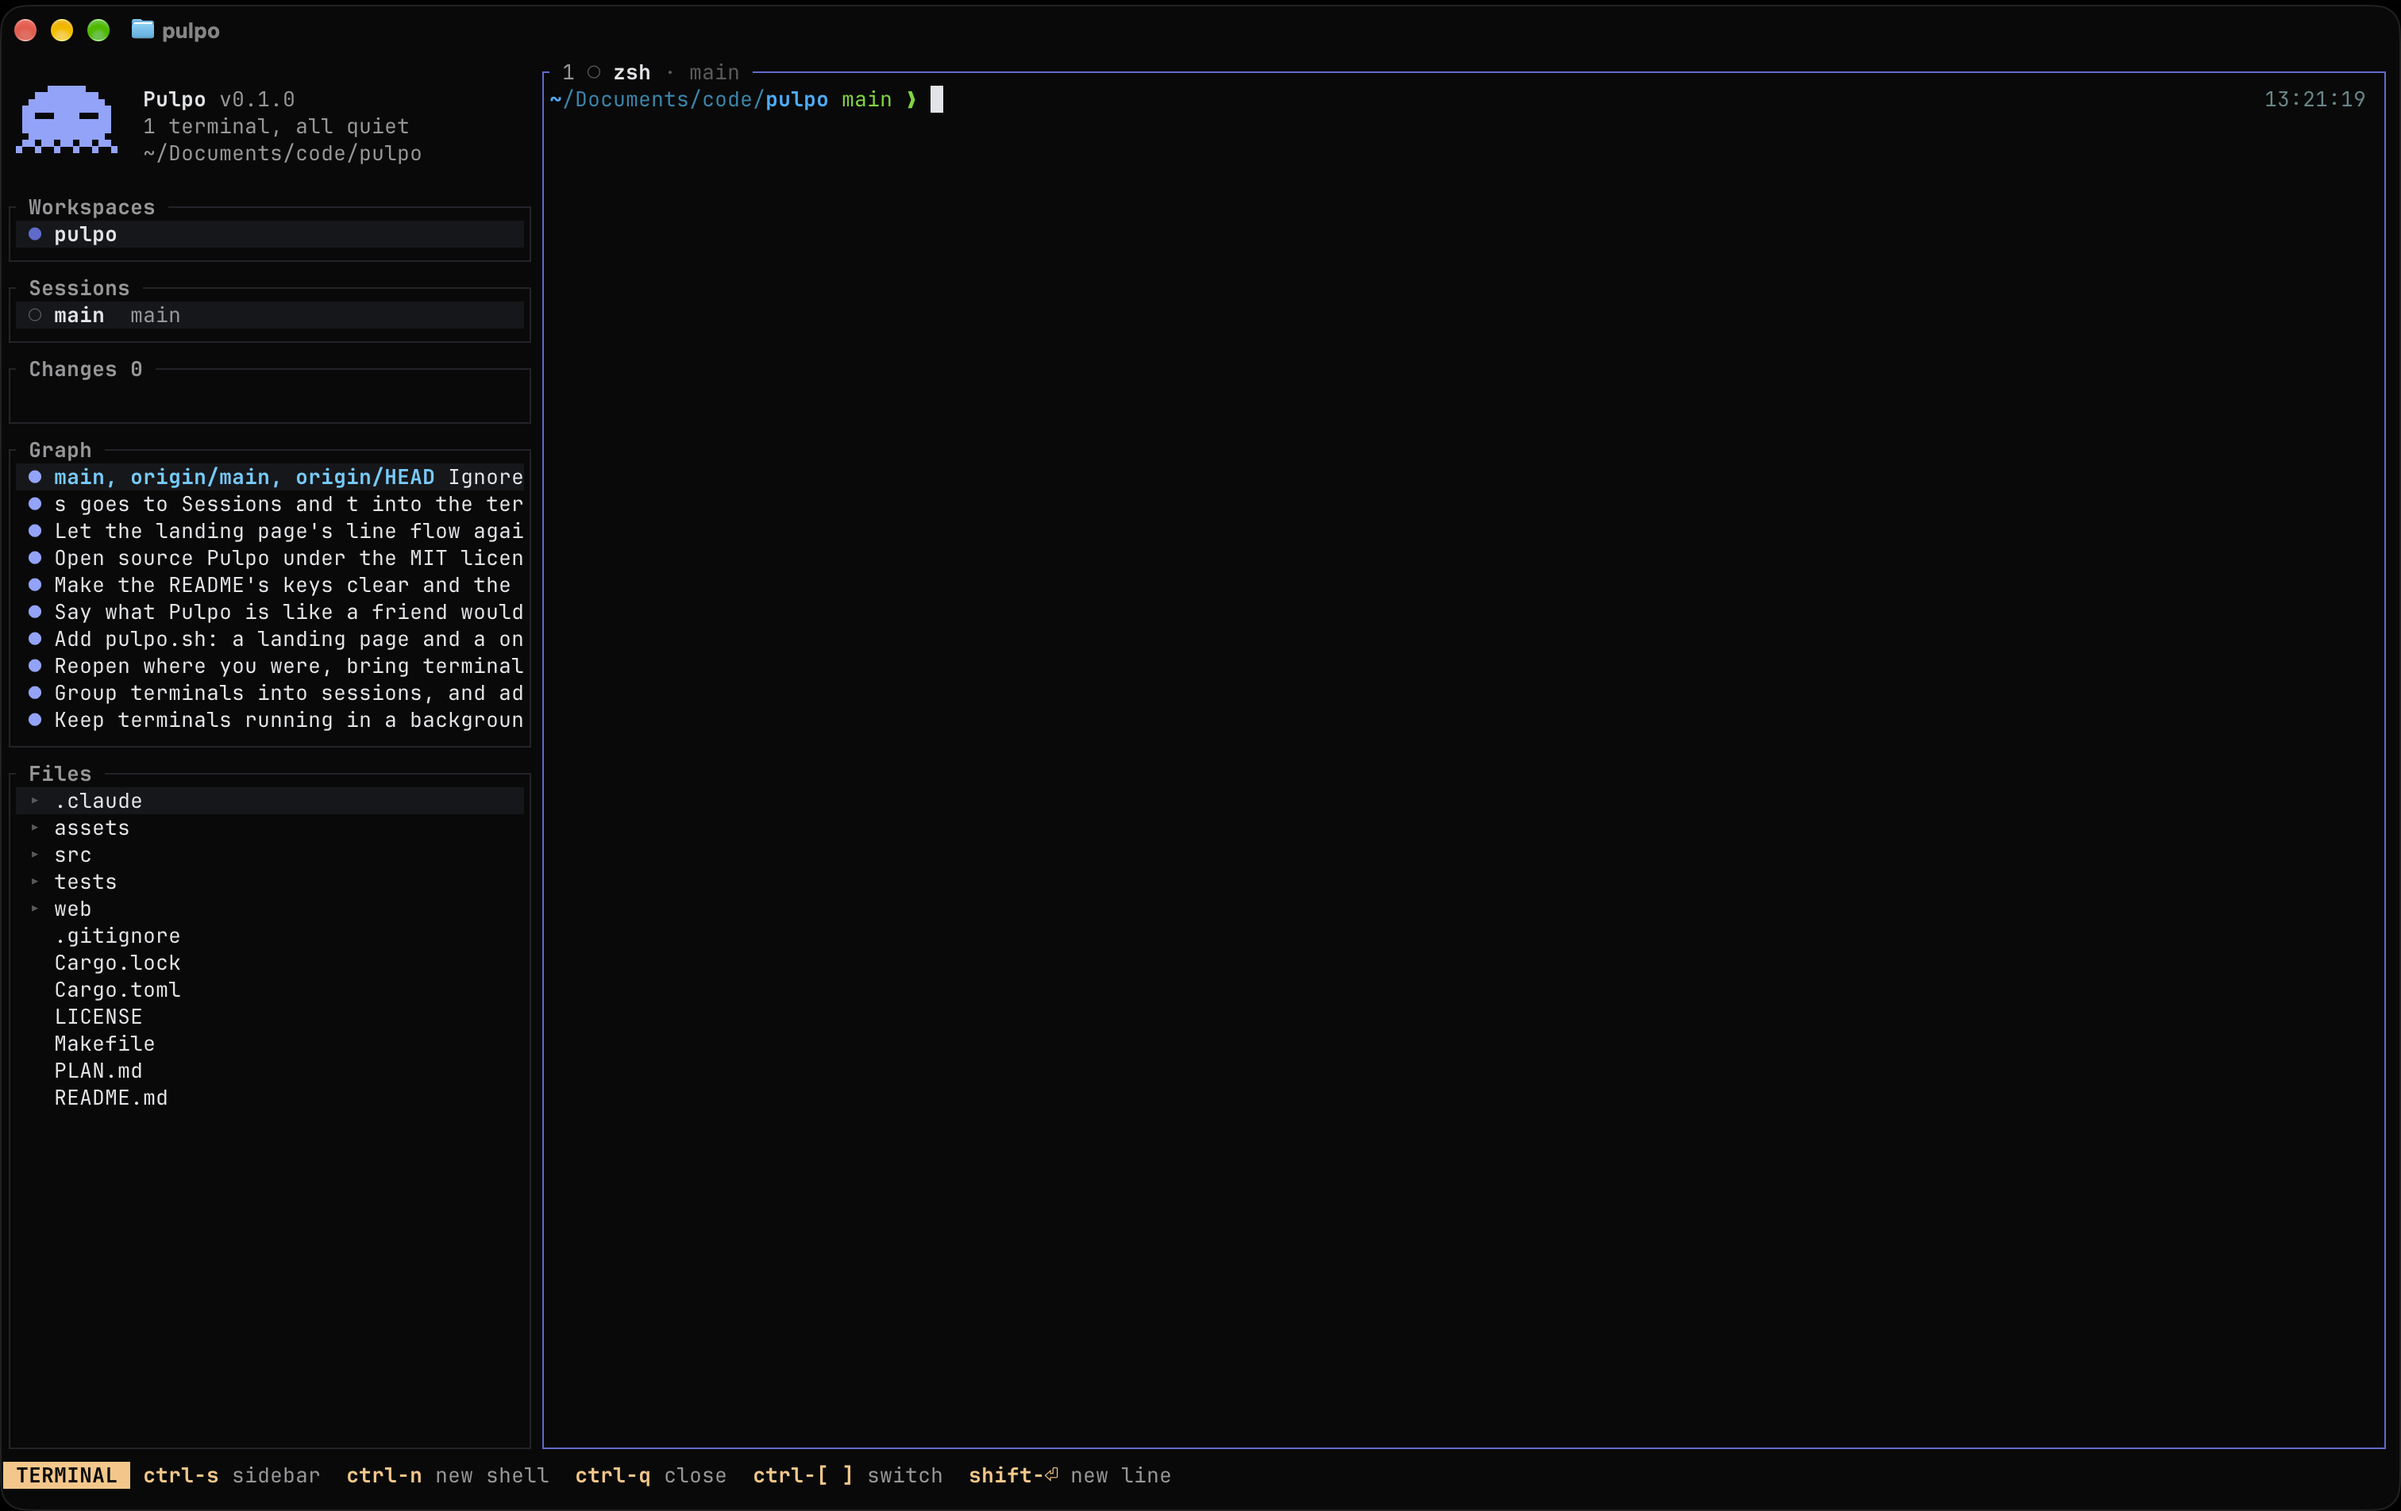
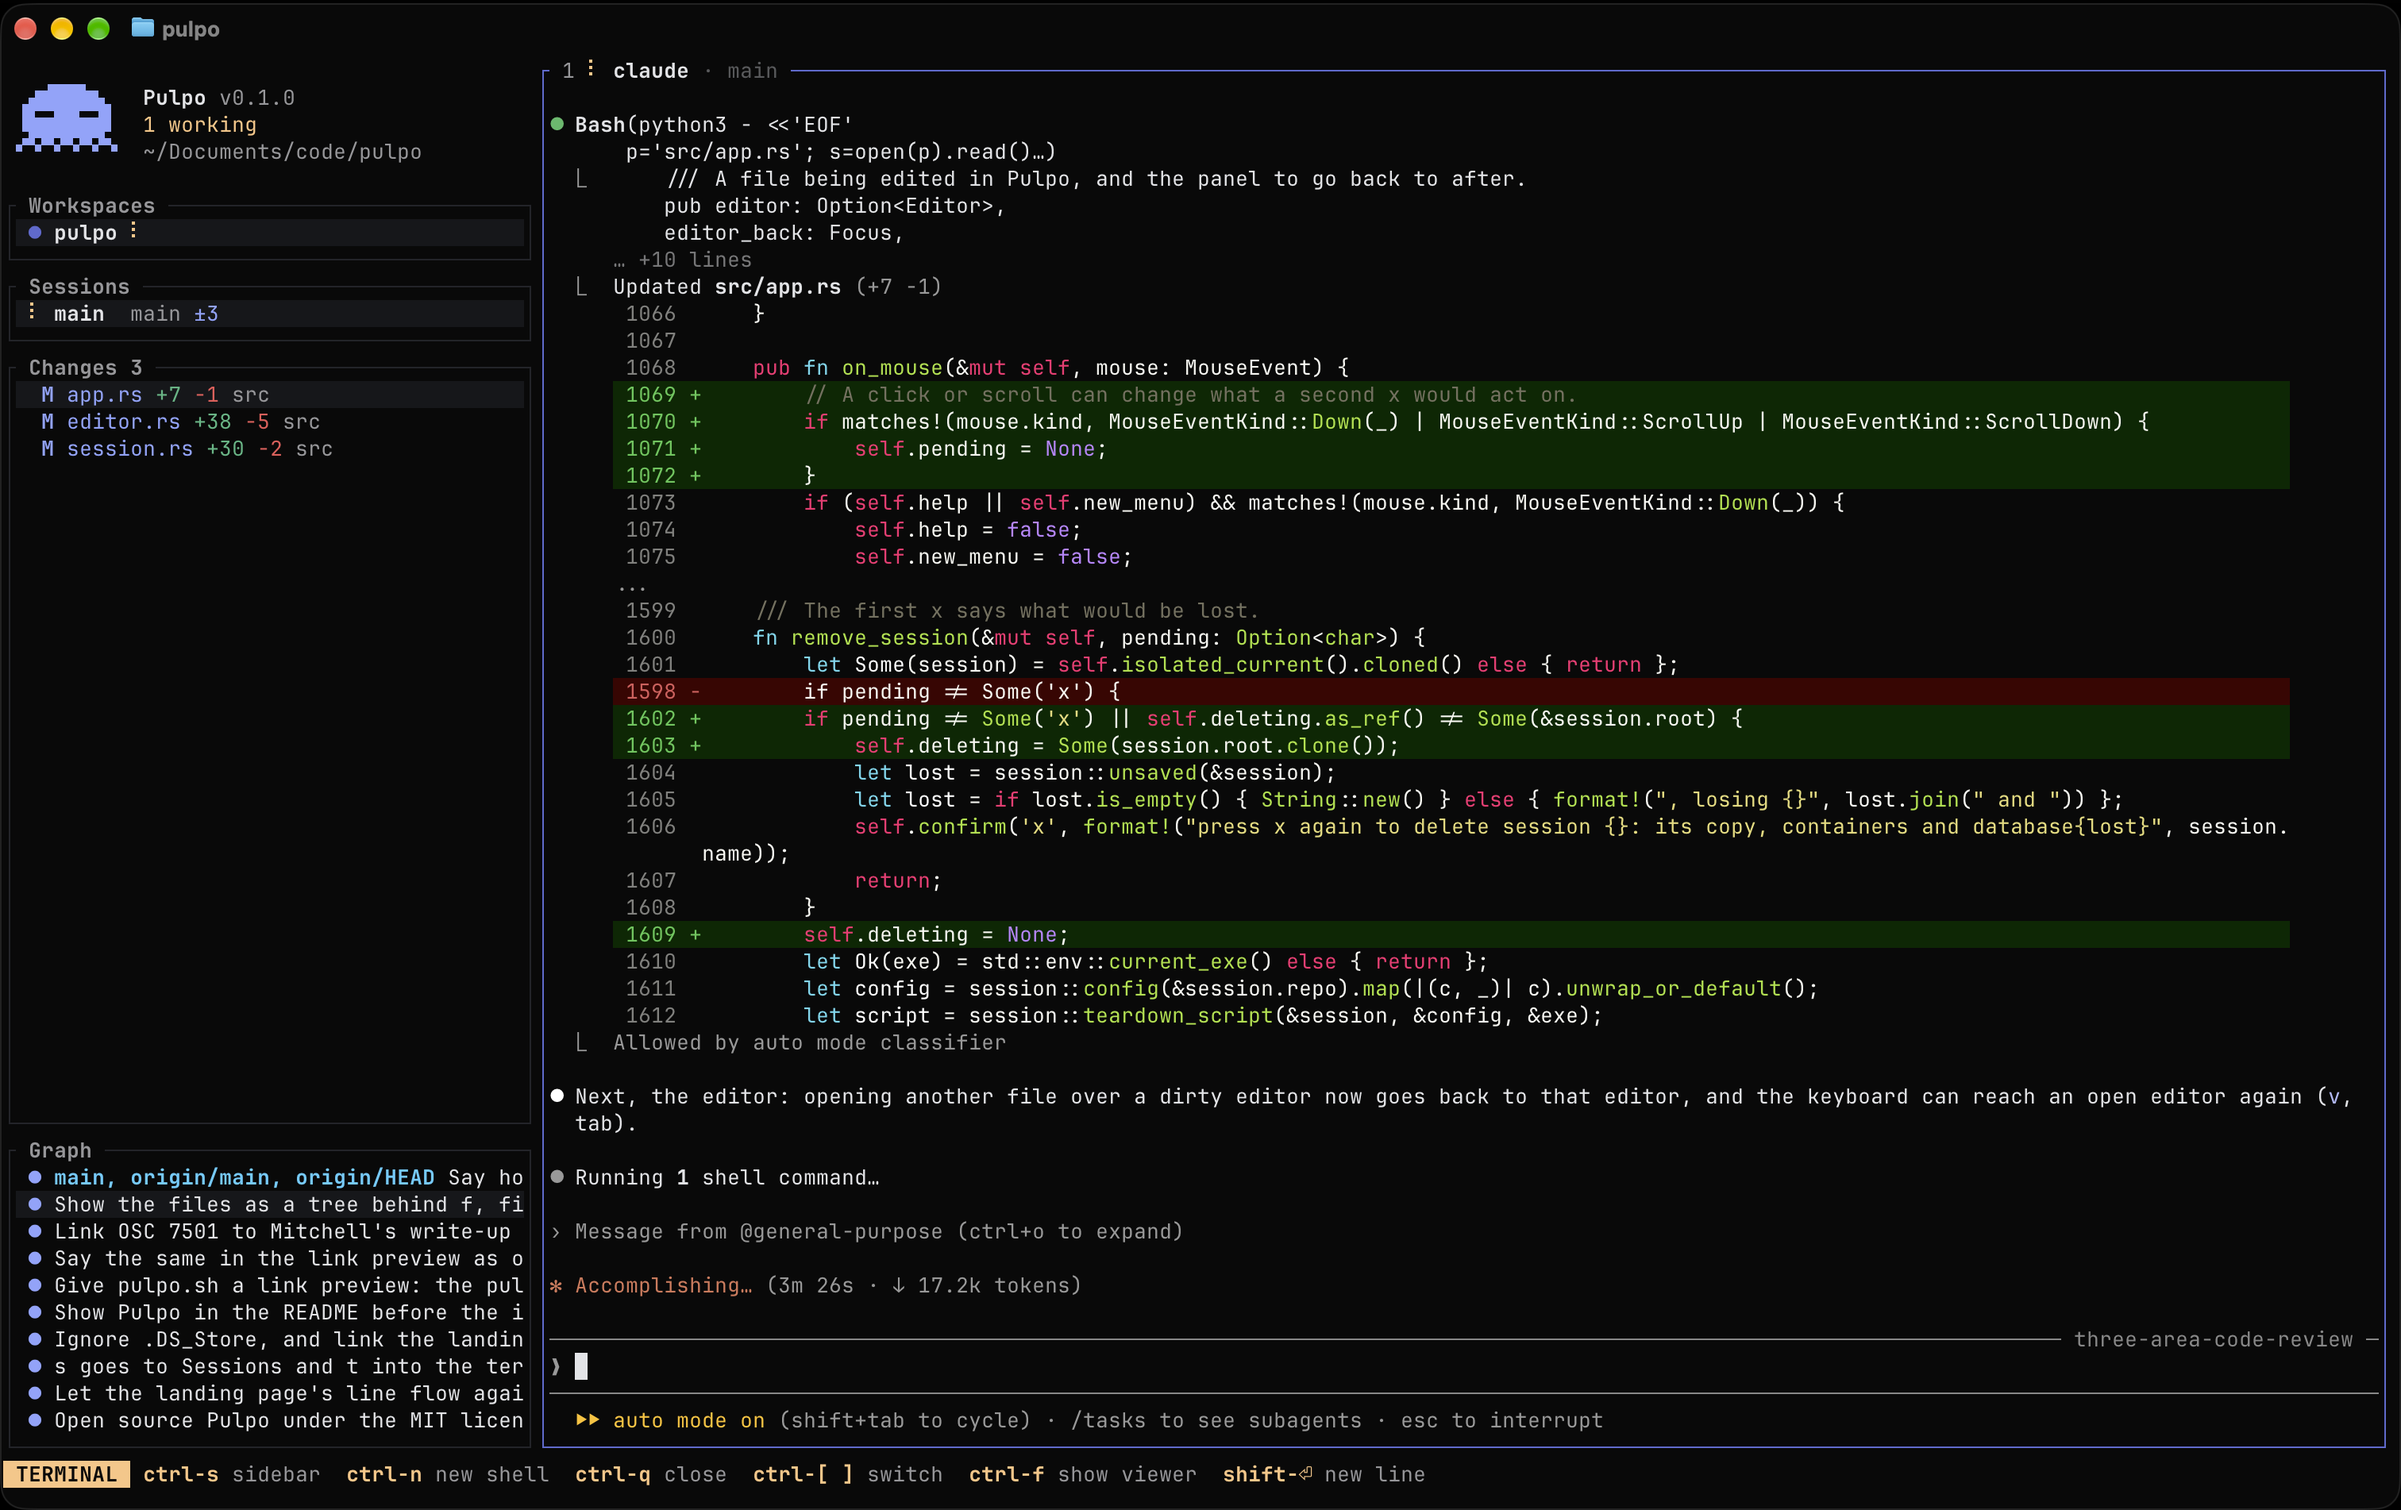
Show the new screenshot in the README

diff --git a/README.md b/README.md
@@ -38,7 +38,7 @@ It's a terminal multiplexer for coding agents. Think tmux, but it actually knows
 That's it. That's the app.
 
 <p align="center">
-  <img src="assets/screenshot.png" alt="Pulpo: the sidebar with workspaces, sessions, changes, graph and files on the left, a terminal on the right">
+  <img src="assets/screenshot.png" alt="Pulpo: the sidebar with workspaces, sessions, changes and graph on the left, a terminal on the right">
 </p>
 
 ## Install
